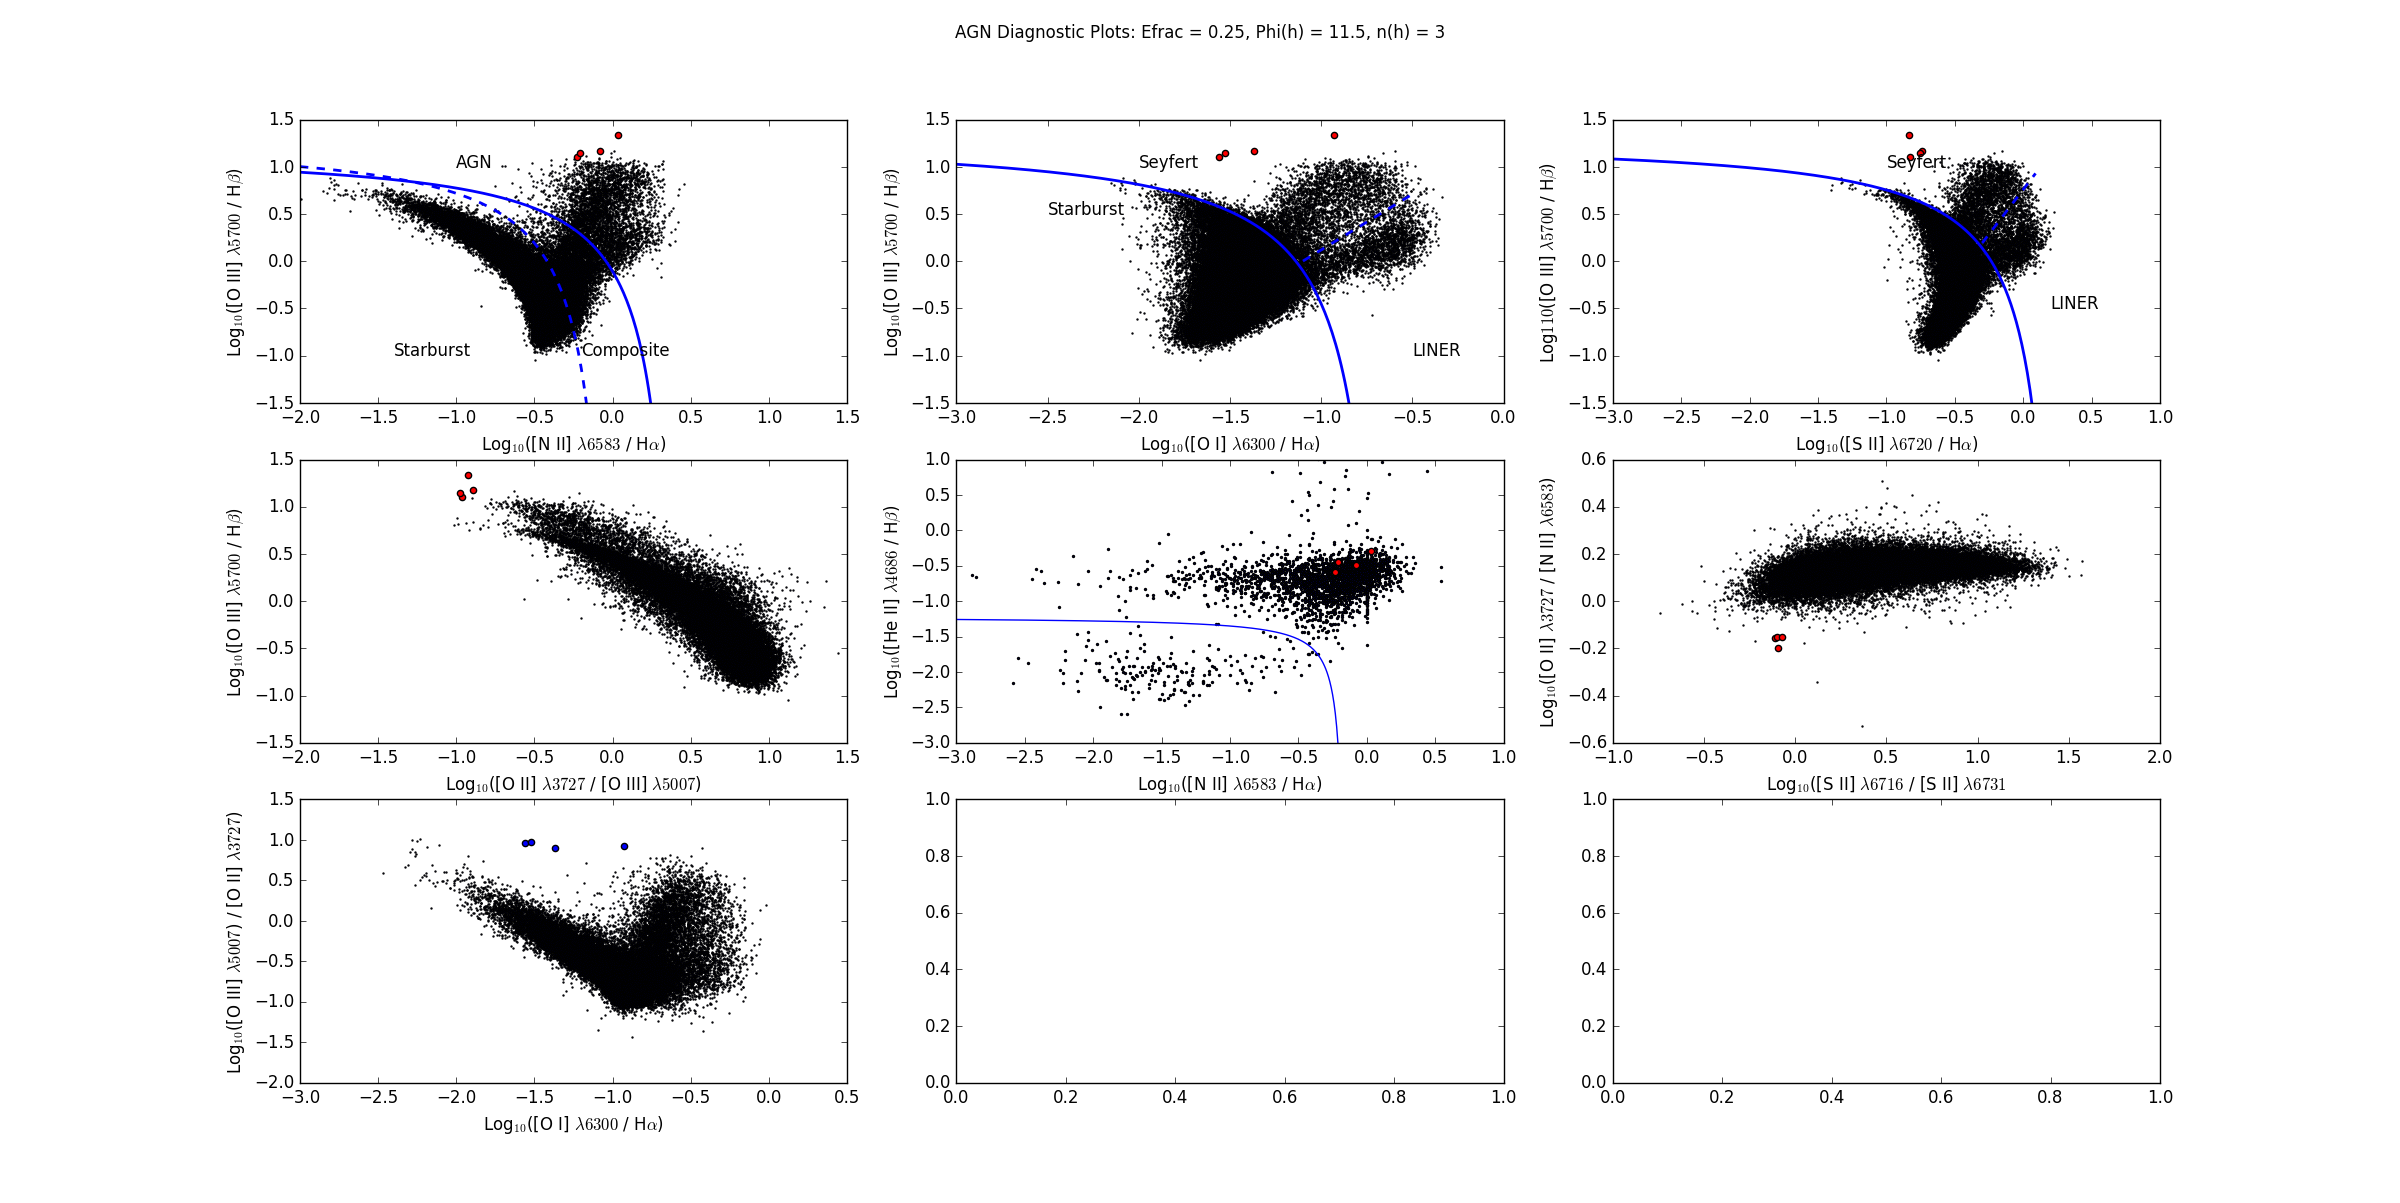
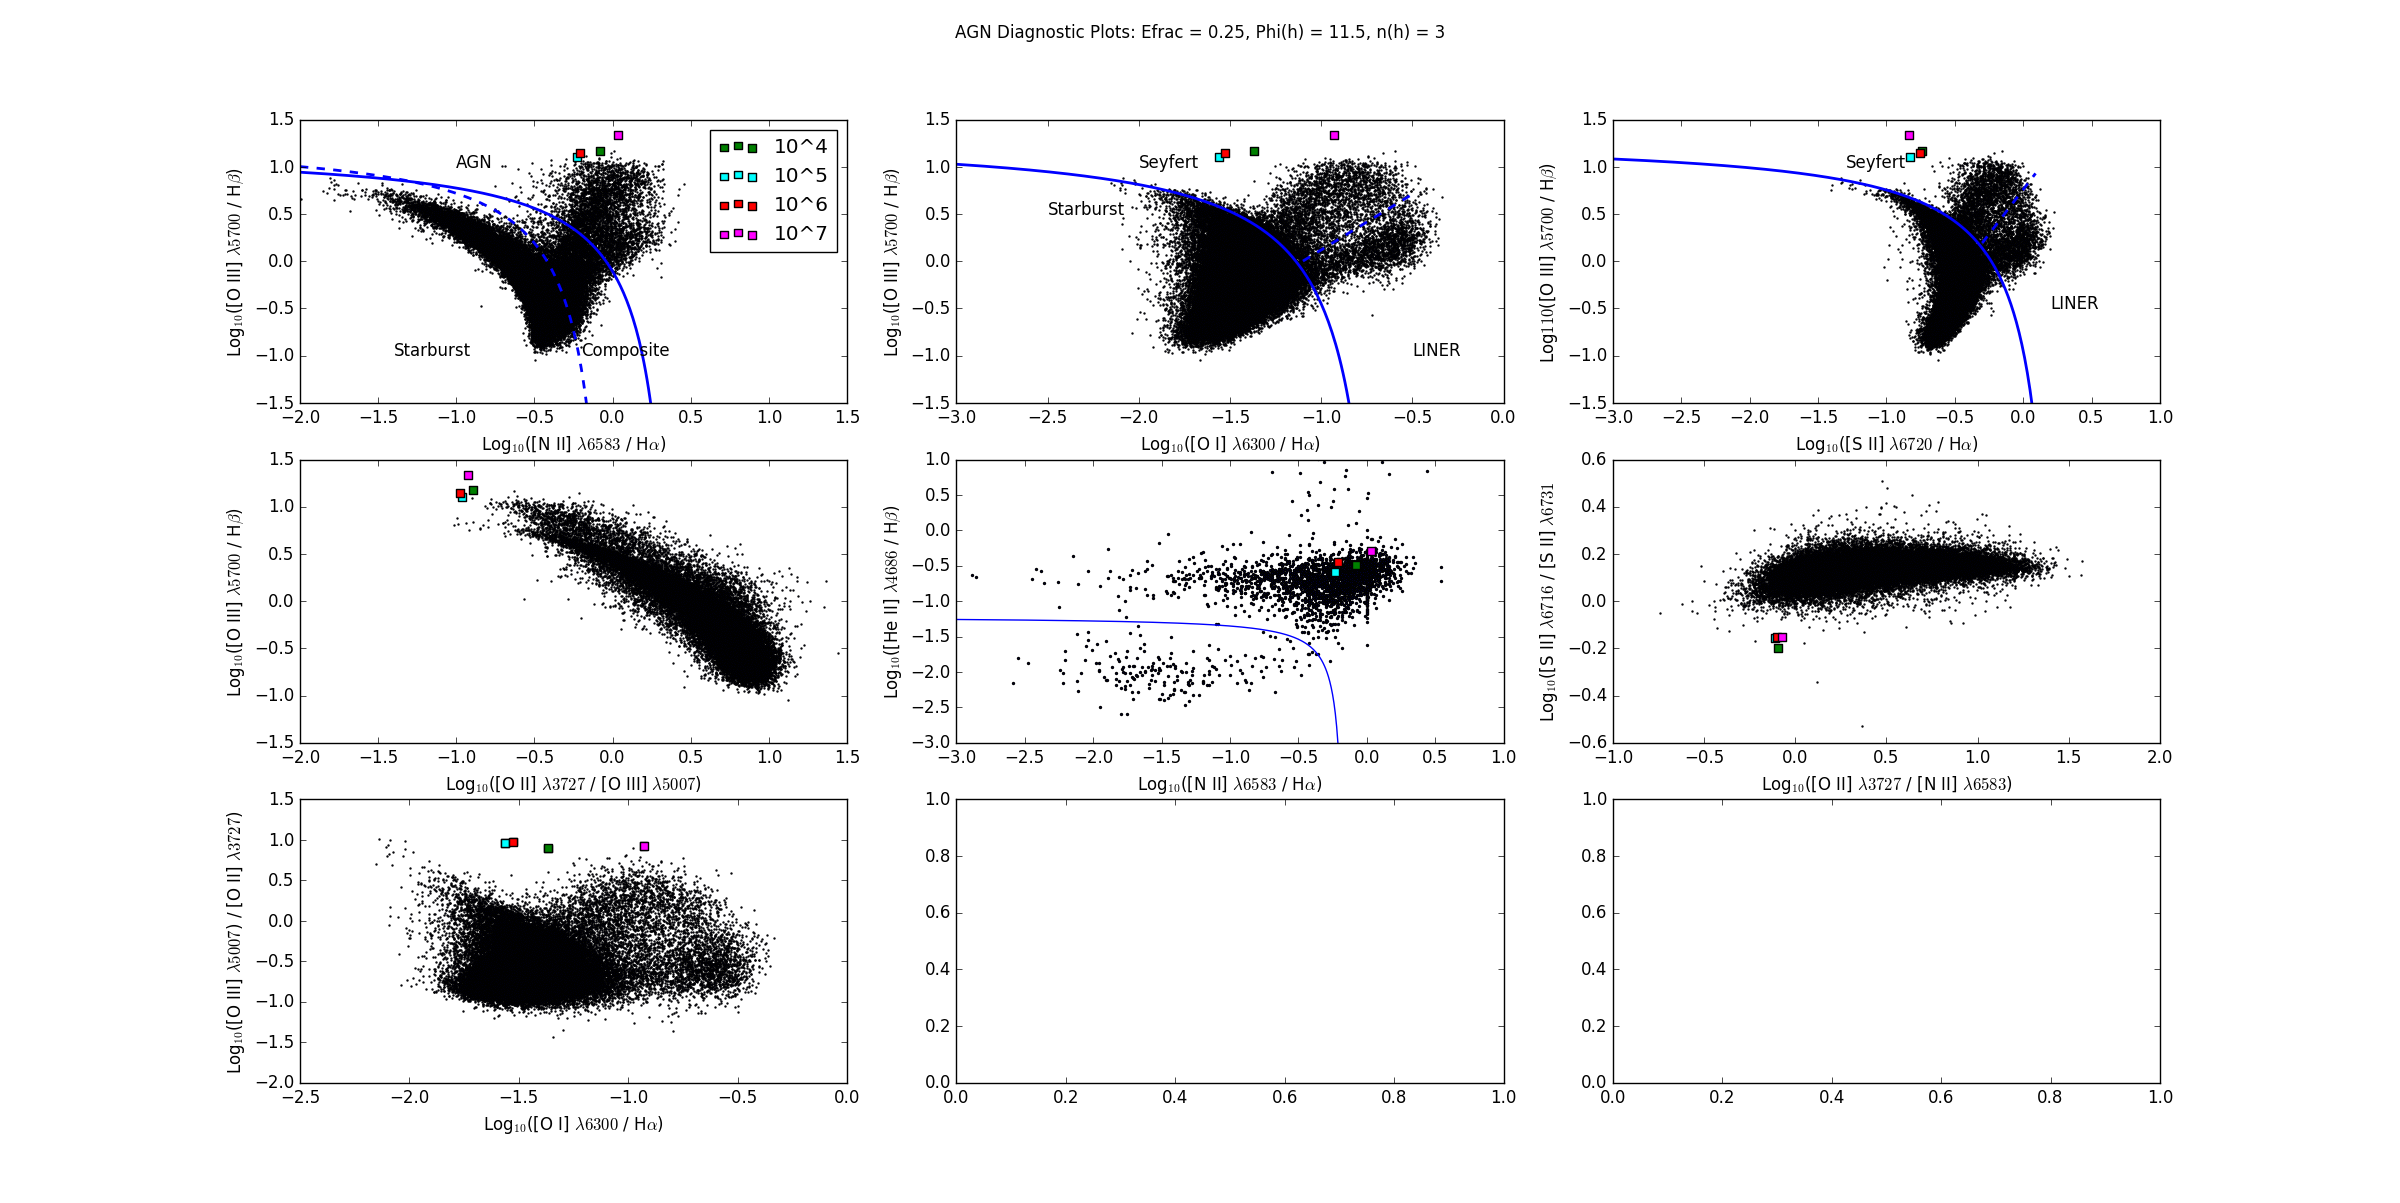
Updated plots to label the temperature it was calculated at

diff --git a/DiagnosticPlots.py b/DiagnosticPlots.py
@@ -8,10 +8,10 @@ our model of the Spectral Energy Distribution of Seyfert Galaxies."""
 
 #Import required modules
 import matplotlib.pyplot as plt
+from matplotlib import cm
 import numpy as np
 import pandas as pd
 import os
-
 #List all the subdirectories within directory that have the data that we want
 def filelist(directory): 
     for root, dirs, files in os.walk(directory):
@@ -33,7 +33,7 @@ dfs=[] #Create an empty array for our Data
 
 d=pd.DataFrame() 
 d=d.reset_index()
-d2=pd.DataFrame({'Temperature': ['10^4','10^5', '10^6', '10^7']},dtype=object) #Create a Dataframe of labels for each file used
+d2=pd.DataFrame({'Temperature': [10**4,10**5, 10**6, 10**7]},dtype=float) #Create a Dataframe of labels for each file used
 
 for root, dirs, files in os.walk(rootdirectory, topdown=False):
     for name in files:
@@ -70,19 +70,25 @@ d['O III / O II'] = np.log10(np.divide(d['O  3  5007A'],d['TOTL  3727A']))
 
 d.to_csv(Output_File, sep = ",", index=True)
 
+
 #Plot these data points
 SDSS_Data=np.genfromtxt('C:/Users/chris_000/Documents/GitHub/AGN_SED/sdss_data/flux_norm.csv', skip_header=1, delimiter = ',',dtype=float,unpack=True)
 Shirazi_Data=np.genfromtxt('C:/Users/chris_000/Documents/GitHub/AGN_SED/sdss_data/shirazi12.csv', skip_header=3, delimiter = ',',unpack=True)
 
 f, ((ax1,ax2, ax3),(ax4,ax5,ax6), (ax7, ax8, ax9)) = plt.subplots(3,3)
 
+z = [10^4,10^5, 10^6, 10^7]
 x1=np.arange(-2,0.3,0.01)
 y1=1.19+np.divide(0.61,x1-0.47)
 x2=np.arange(-2,0,0.01)
 y2 = 1.3+np.divide(0.61,x2-0.05)
 
+    
 ax1.scatter(np.log10(np.divide(SDSS_Data[18],SDSS_Data[17])),np.log10(np.divide(SDSS_Data[13],SDSS_Data[11])), s=0.5, c='b')
-ax1.scatter(d['N II / H-Alpha'],d['O III / H-Beta'], c= 'r')
+l1 = ax1.scatter(d['N II / H-Alpha'].get_value(0),d['O III / H-Beta'].get_value(0), marker = "s",c='green', s = 30, label = "10^4")
+l2 = ax1.scatter(d['N II / H-Alpha'].get_value(1),d['O III / H-Beta'].get_value(1), marker = "s",c='cyan', s = 30, label = "10^5")
+l3 = ax1.scatter(d['N II / H-Alpha'].get_value(2),d['O III / H-Beta'].get_value(2), marker = "s",c='r', s = 30, label = "10^6")
+l4 = ax1.scatter(d['N II / H-Alpha'].get_value(3),d['O III / H-Beta'].get_value(3), marker = "s",c='magenta', s = 30, label = "10^7")
 ax1.plot(x1,y1,'b-',x2,y2,'b--',linewidth = 2)
 #ax1.set_title(r'Log$_{10}$([N II] $\lambda 6583$ / H$\alpha$) vs Log$_{10}$(O III] $\lambda 5700$ / H$\beta$) ')
 ax1.set_ylim(np.log10(10**(-1.5)), np.log10(10**(1.5)))
@@ -98,7 +104,10 @@ y3 = 1.33 + np.divide(0.73,x3+0.59)
 x4 = np.arange(-1.1,-0.5,0.01)
 y4 = 1.18*x4+1.3
 ax2.scatter(np.log10(np.divide(SDSS_Data[15],SDSS_Data[17])),np.log10(np.divide(SDSS_Data[13],SDSS_Data[11])), s=0.5, c='b')
-ax2.scatter(d['O I / H-Alpha'],d['O III / H-Beta'], c='r')
+ax2.scatter(d['O I / H-Alpha'].get_value(0),d['O III / H-Beta'].get_value(0), marker = "s",c='green', s = 30, label = "10^4")
+ax2.scatter(d['O I / H-Alpha'].get_value(1),d['O III / H-Beta'].get_value(1), marker = "s",c='cyan', s = 30, label = "10^5")
+ax2.scatter(d['O I / H-Alpha'].get_value(2),d['O III / H-Beta'].get_value(2), marker = "s",c='r', s = 30, label = "10^6")
+ax2.scatter(d['O I / H-Alpha'].get_value(3),d['O III / H-Beta'].get_value(3), marker = "s",c='magenta', s = 30, label = "10^7")
 ax2.plot(x3,y3,x4,y4,'b--',linewidth = 2)
 #ax2.set_title(r'(Log$_{10}$([O I] $\lambda 6300$ / H$\alpha$) vs [O III] $\lambda 5700$ / H$\beta$) ')
 #ax2.set_title(r'Log$_{10}$([O I] $\lambda 6300$ / H$\alpha$) vs [O III] $\lambda 5700$ / H$\beta$) ')
@@ -116,18 +125,23 @@ y5 = 1.30 + np.divide(0.72,x5-0.32)
 x6 = np.arange(-0.3,0.1,0.01)
 y6 = 1.89 * x6 + 0.76
 ax3.scatter(np.log10(np.divide(np.add(SDSS_Data[19],SDSS_Data[20]),SDSS_Data[17])),np.log10(np.divide(SDSS_Data[13],SDSS_Data[11])), s=0.5, c='b')
-ax3.scatter(d['S II / H-Alpha'],d['O III / H-Beta'],c = 'r')
+ax3.scatter(d['S II / H-Alpha'].get_value(0),d['O III / H-Beta'].get_value(0), marker = "s",c='green', s = 30, label = "10^4")
+ax3.scatter(d['S II / H-Alpha'].get_value(1),d['O III / H-Beta'].get_value(1), marker = "s",c='cyan', s = 30, label = "10^5")
+ax3.scatter(d['S II / H-Alpha'].get_value(2),d['O III / H-Beta'].get_value(2), marker = "s",c='r', s = 30, label = "10^6")
+ax3.scatter(d['S II / H-Alpha'].get_value(3),d['O III / H-Beta'].get_value(3), marker = "s",c='magenta', s = 30, label = "10^7")
 ax3.plot(x5,y5,x6,y6, 'b--',linewidth=2)
-#ax3.set_title(r'Log$_{10}$([S II] $\lambda 6720$ / H$\alpha$) vs Log$_{10}$([O III] $\lambda 5700$ / H$\beta$) ')
 ax3.set_xlim(np.log10(10**(-3)),np.log10(10**1))
 ax3.set_ylim(np.log10(10**(-1.5)), np.log10(10**(1.5)))
 ax3.set_ylabel(r'Log$1{10}$([O III] $\lambda 5700$ / H$\beta$)')
 ax3.set_xlabel(r'Log$_{10}$([S II] $\lambda 6720$ / H$\alpha$)')
-ax3.text(-1,1,'Seyfert')
+ax3.text(-1.3,1,'Seyfert')
 ax3.text(0.2,-0.5,'LINER')
 
 ax4.scatter(np.log10(np.divide(np.add(SDSS_Data[5],SDSS_Data[6]),SDSS_Data[13])),np.log10(np.divide(SDSS_Data[13],SDSS_Data[11])), s=0.5, c='b')
-ax4.scatter(d['O II / O III'],d['O III / H-Beta'],c='r')
+ax4.scatter(d['O II / O III'].get_value(0),d['O III / H-Beta'].get_value(0), marker = "s",c='green', s = 30, label = "10^4")
+ax4.scatter(d['O II / O III'].get_value(1),d['O III / H-Beta'].get_value(1), marker = "s",c='cyan', s = 30, label = "10^5")
+ax4.scatter(d['O II / O III'].get_value(2),d['O III / H-Beta'].get_value(2), marker = "s",c='r', s = 30, label = "10^6")
+ax4.scatter(d['O II / O III'].get_value(3),d['O III / H-Beta'].get_value(3), marker = "s",c='magenta', s = 30, label = "10^7")
 #ax4.set_title(r'Log$_{10}$([O II] $\lambda 3727$ / [O III] $\lambda 5007$) vs Log$_{10}$([O III] $\lambda 5700$ / H$\beta$) ')
 ax4.set_ylabel(r'Log$_{10}$([O III] $\lambda 5700$ / H$\beta$)')
 ax4.set_xlabel(r'Log$_{10}$([O II] $\lambda 3727$ / [O III] $\lambda 5007$)')
@@ -137,7 +151,10 @@ ax4.set_ylim(np.log10(10**(-1.5)), np.log10(10**(1.5)))
 x = np.arange(-3,-0.2,0.01)
 y = -1.22 + np.divide(1,8.92*x+1.32)
 ax5.scatter(Shirazi_Data[7],Shirazi_Data[6], s = 2)
-ax5.scatter(d['N II / H-Alpha'],d['He II / H-Beta'], c= 'r')
+ax5.scatter(d['N II / H-Alpha'].get_value(0),d['He II / H-Beta'].get_value(0), marker = "s",c='green', s = 30, label = "10^4")
+ax5.scatter(d['N II / H-Alpha'].get_value(1),d['He II / H-Beta'].get_value(1), marker = "s",c='cyan', s = 30, label = "10^5")
+ax5.scatter(d['N II / H-Alpha'].get_value(2),d['He II / H-Beta'].get_value(2), marker = "s",c='r', s = 30, label = "10^6")
+ax5.scatter(d['N II / H-Alpha'].get_value(3),d['He II / H-Beta'].get_value(3), marker = "s",c='magenta', s = 30, label = "10^7")
 ax5.plot(x,y)
 ax5.set_xlim(-3,1)
 ax5.set_ylim(-3,1)
@@ -147,15 +164,21 @@ ax5.set_ylabel(r'Log$_{10}$([He II] $\lambda 4686$ / H$\beta$)')
 
 
 ax6.scatter(np.log10(np.divide(np.add(SDSS_Data[5],SDSS_Data[6]),SDSS_Data[18])),np.log10(np.divide(SDSS_Data[19],SDSS_Data[20])),s = 0.5)
-ax6.scatter(d['O II / N II'],d['S II 6716/ S II 6731'], c='r')
+ax6.scatter(d['O II / N II'].get_value(0),d['S II 6716/ S II 6731'].get_value(0), marker = "s",c='green', s = 30, label = "10^4")
+ax6.scatter(d['O II / N II'].get_value(1),d['S II 6716/ S II 6731'].get_value(1), marker = "s",c='cyan', s = 30, label = "10^5")
+ax6.scatter(d['O II / N II'].get_value(2),d['S II 6716/ S II 6731'].get_value(2), marker = "s",c='r', s = 30, label = "10^6")
+ax6.scatter(d['O II / N II'].get_value(3),d['S II 6716/ S II 6731'].get_value(3), marker = "s",c='magenta', s = 30, label = "10^7")
 ax6.set_ylabel(r'Log$_{10}$([S II] $\lambda 6716$ / [S II] $\lambda 6731$')
 ax6.set_xlabel(r'Log$_{10}$([O II] $\lambda 3727$ / [N II] $\lambda 6583$)')
 
 ax7.scatter(np.log10(np.divide(SDSS_Data[15],SDSS_Data[17])),np.log10(np.divide(SDSS_Data[13],np.add(SDSS_Data[5],SDSS_Data[6]))),s = 0.5)
-ax7.scatter(d['O I / H-Alpha'],d['O III / O II'])
+ax7.scatter(d['O I / H-Alpha'],d['O III / O II'],  marker = "s", c=z, cmap = cm.hot, s = 30)
+ax7.scatter(d['O I / H-Alpha'].get_value(0),d['O III / O II'].get_value(0), marker = "s",c='green', s = 30, label = "10^4")
+ax7.scatter(d['O I / H-Alpha'].get_value(1),d['O III / O II'].get_value(1), marker = "s",c='cyan', s = 30, label = "10^5")
+ax7.scatter(d['O I / H-Alpha'].get_value(2),d['O III / O II'].get_value(2), marker = "s",c='r', s = 30, label = "10^6")
+ax7.scatter(d['O I / H-Alpha'].get_value(3),d['O III / O II'].get_value(3), marker = "s",c='magenta', s = 30, label = "10^7")
 ax7.set_xlabel(r'Log$_{10}$([O I] $\lambda 6300$ / H$\alpha$)')
 ax7.set_ylabel(r'Log$_{10}$([O III] $\lambda 5007$) / [O II] $\lambda 3727$)')
 plt.suptitle('AGN Diagnostic Plots: Efrac = 0.01, Phi(h) = 8.4771, n(h) = 3')
-plt.show()
-
-
+ax1.legend()
+plt.show() 
